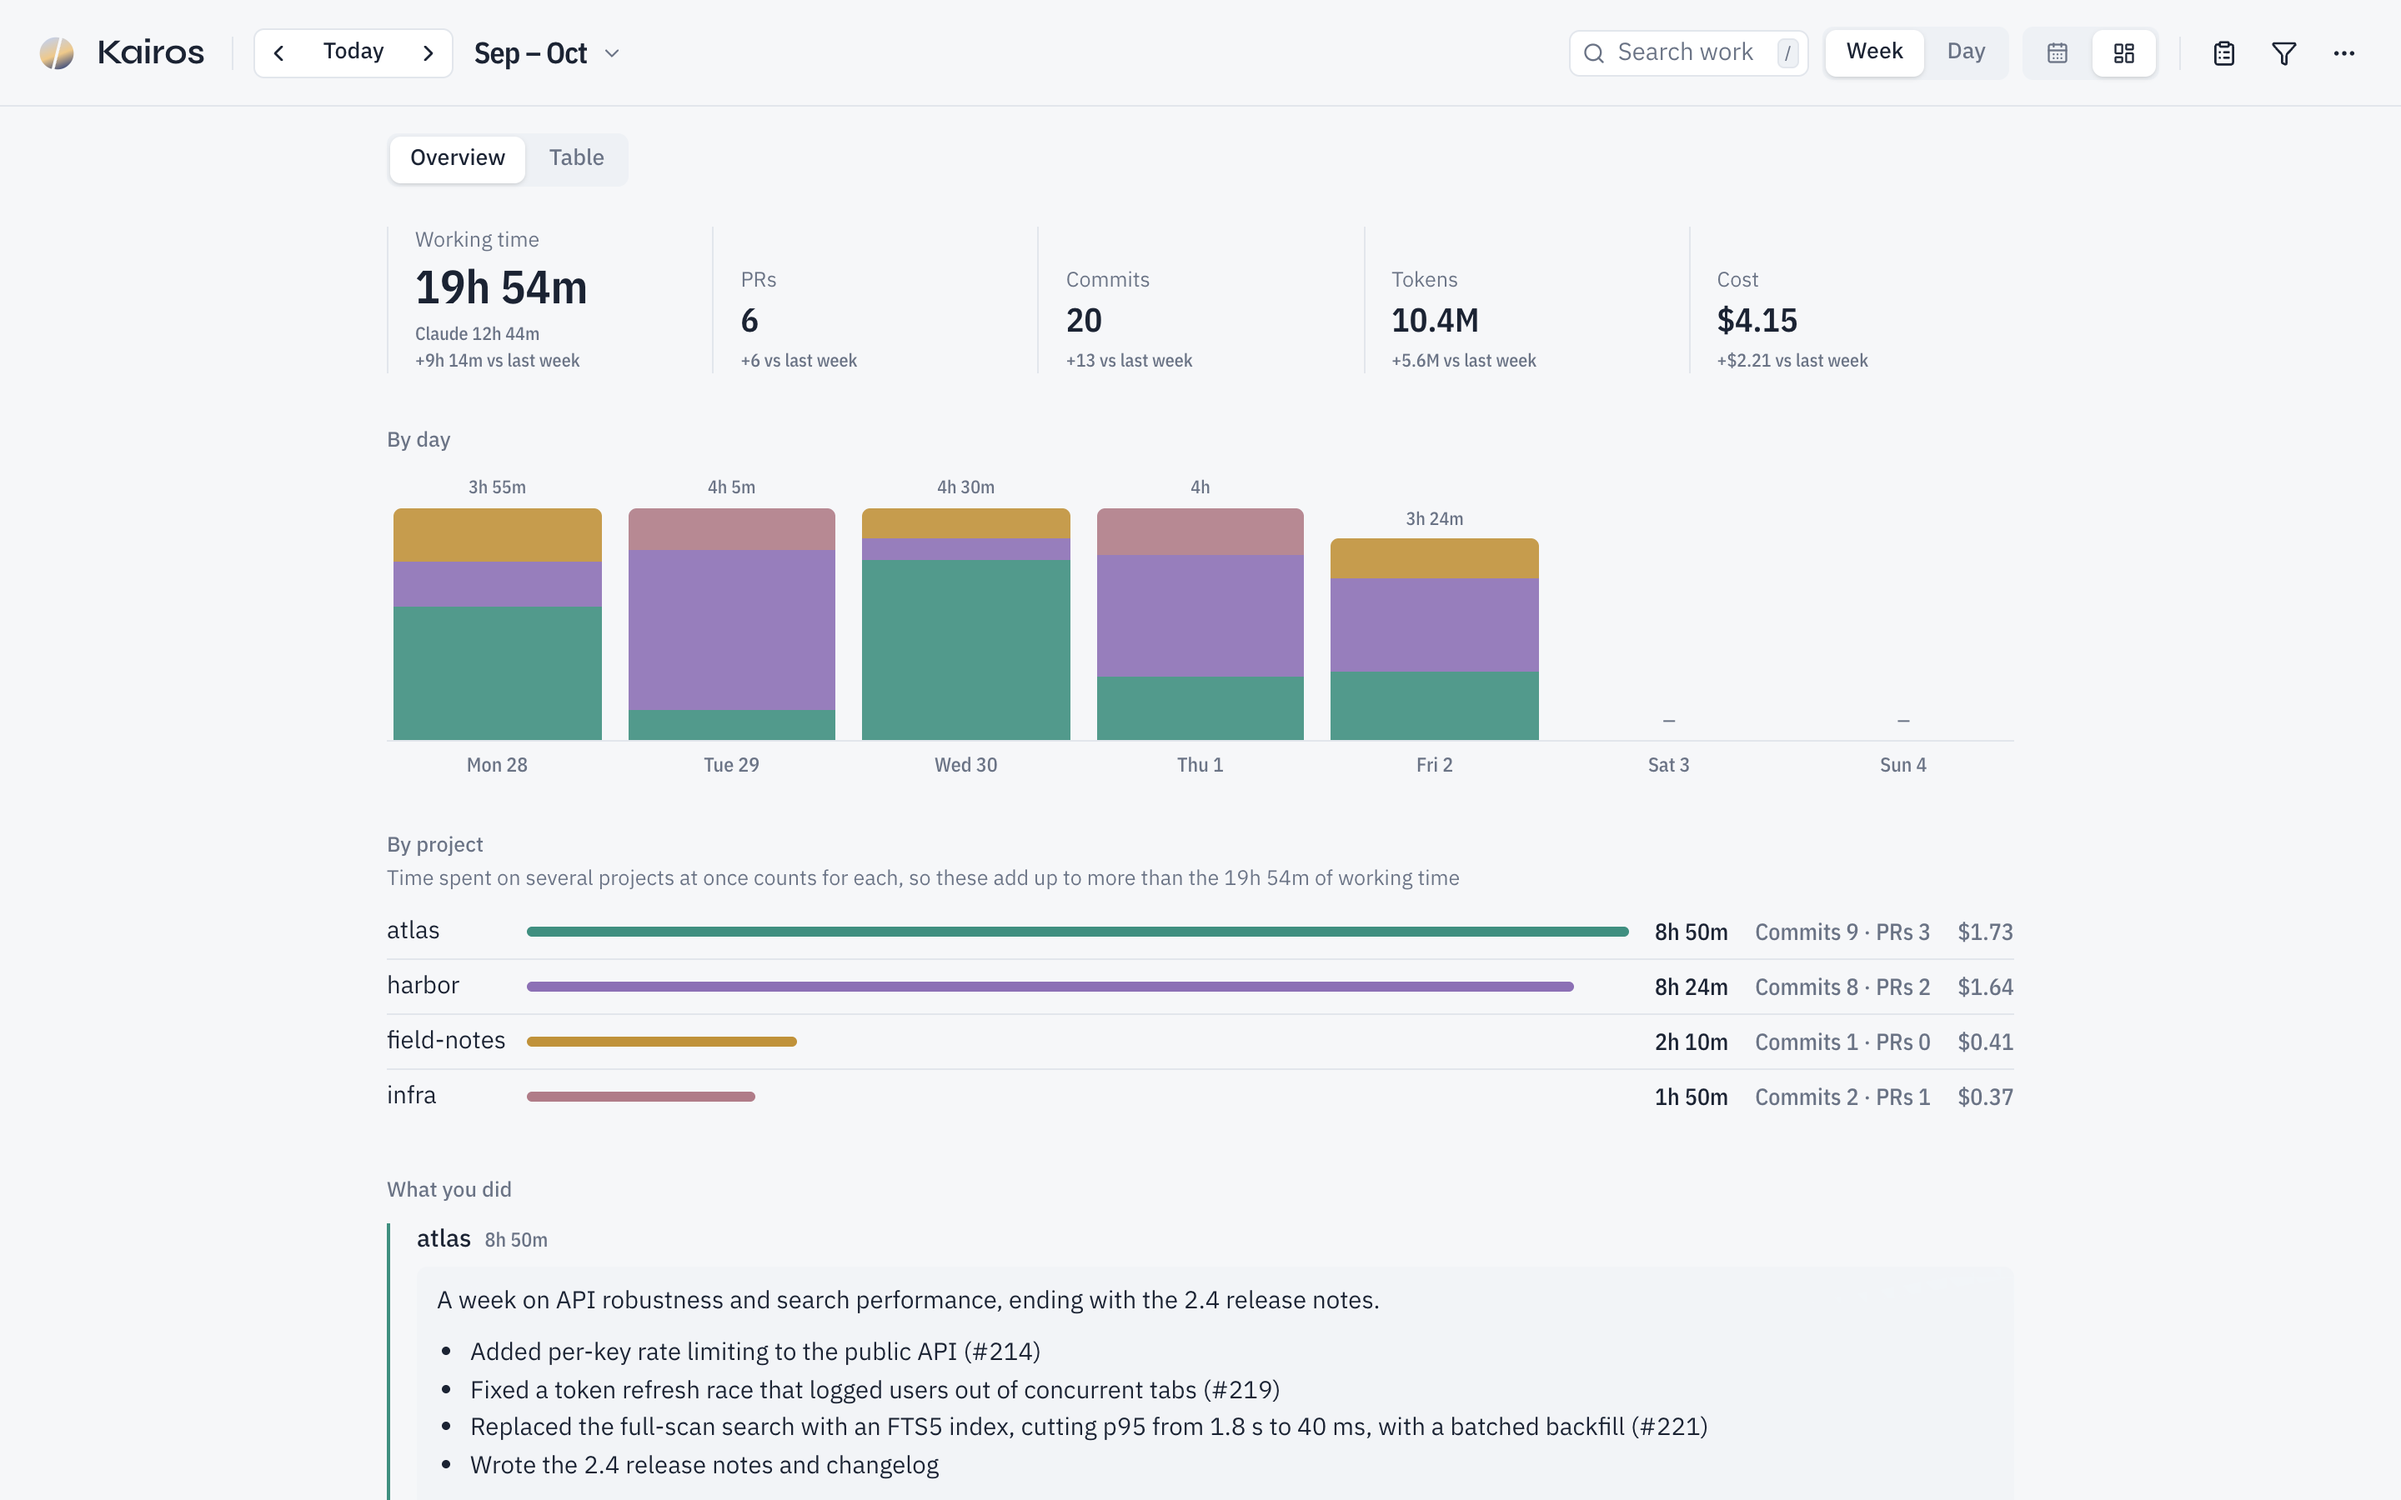
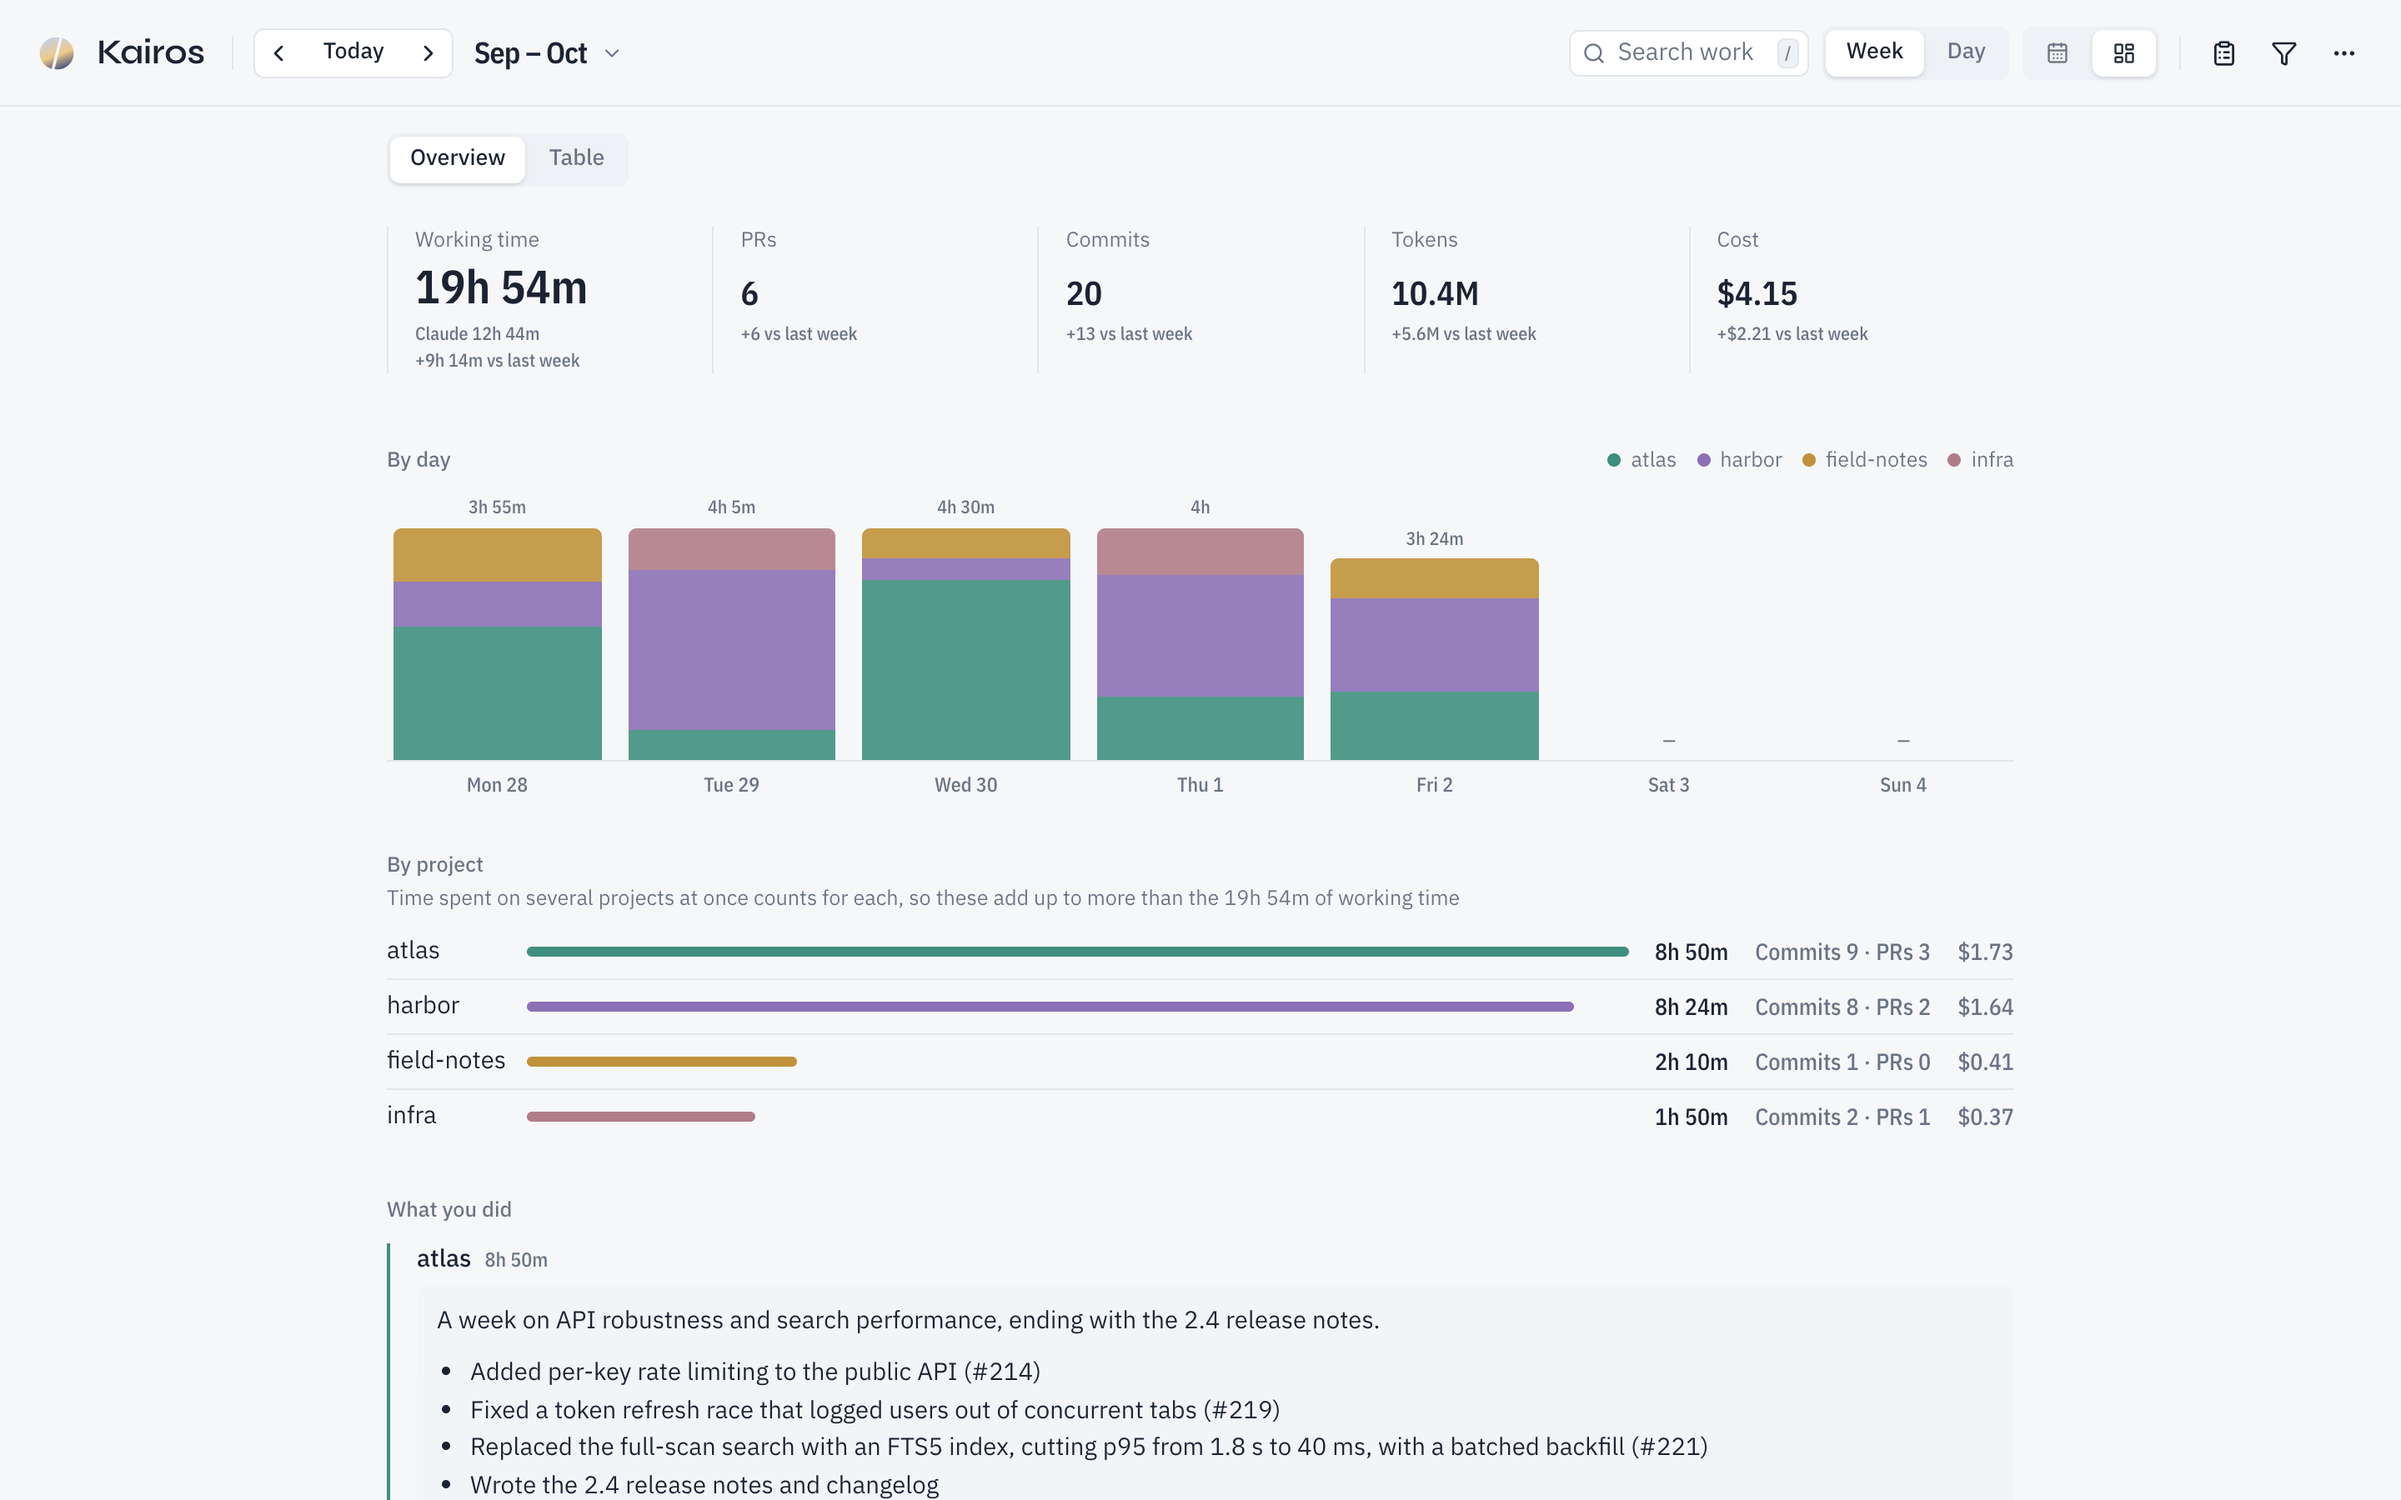
docs: describe commit and PR marks in DESIGN.md and retake screenshots
The demo week committed only in each block's last minutes; real logs commit
all along a block, so the demo now spreads commits through the work.

diff --git a/scripts/screenshots/demo.ts b/scripts/screenshots/demo.ts
@@ -626,6 +626,7 @@ function writeSection(b: LogBuilder, s: DemoSection, project: ProjectKey): void 
   const end = start + s.minutes;
   const turn = s.minutes / s.prompts.length;
   const files = s.files ?? [];
+  const commits = commitTimes(s, start);
   s.prompts.forEach((prompt, i) => {
     const from = start + i * turn;
     const to = from + turn;
@@ -648,24 +649,46 @@ function writeSection(b: LogBuilder, s: DemoSection, project: ProjectKey): void 
       } else {
         b.bash(t, "bun test", "42 pass\n0 fail");
       }
+      while (commits[0] !== undefined && commits[0].at <= t) {
+        const next = commits.shift();
+        if (next) writeCommit(b, next.message, t + 0.2);
+      }
     }
-    if (i === s.prompts.length - 1) writeOutcomes(b, s, project, end);
+    if (i === s.prompts.length - 1) {
+      for (const [k, c] of commits.entries()) writeCommit(b, c.message, end - 3 + k * 0.3);
+      writePr(b, s, project, end);
+    }
     b.text(to, "Done.");
     b.turnEnd(to, Math.round(turn * 60_000 * 0.6));
   });
 }
 
-/** Commits and the PR just before the section ends. */
-function writeOutcomes(b: LogBuilder, s: DemoSection, project: ProjectKey, end: number): void {
-  (s.commits ?? []).forEach((message, i) => {
-    commitSeq += 1;
-    const hash = (0x1a2b3c0 + commitSeq * 7919).toString(16).slice(0, 7);
-    b.bash(
-      end - 3 + i * 0.3,
-      `git commit -m "${message}"`,
-      `[${b.gitBranch} ${hash}] ${message}\n 3 files changed, 64 insertions(+), 12 deletions(-)`,
-    );
-  });
+/**
+ * When each commit of a section lands: spread through the work, the last one shortly before the
+ * end. Real logs commit all along a block, not only at its end, and the calendar marks each one
+ * where it happened.
+ */
+function commitTimes(s: DemoSection, start: number): { message: string; at: number }[] {
+  const messages = s.commits ?? [];
+  return messages.map((message, i) => ({
+    message,
+    at: start + (s.minutes * (i + 1)) / (messages.length + 0.4) - 2,
+  }));
+}
+
+/** One `git commit` with its output, as Claude Code logs it. */
+function writeCommit(b: LogBuilder, message: string, at: number): void {
+  commitSeq += 1;
+  const hash = (0x1a2b3c0 + commitSeq * 7919).toString(16).slice(0, 7);
+  b.bash(
+    at,
+    `git commit -m "${message}"`,
+    `[${b.gitBranch} ${hash}] ${message}\n 3 files changed, 64 insertions(+), 12 deletions(-)`,
+  );
+}
+
+/** The section's PR, just before it ends. */
+function writePr(b: LogBuilder, s: DemoSection, project: ProjectKey, end: number): void {
   if (s.pr) {
     b.ghPrCreate(end - 1.5, `gh pr create --title "${s.pr.title}" --body "…"`, {
       number: s.pr.number,

diff --git a/DESIGN.md b/DESIGN.md
@@ -166,6 +166,10 @@ Direction **"Indigo hours"**, chosen on 2026-10-05 from three compared proposals
 A personal tool for looking back at what you did and when. The screen is "calendar or summary +
 drawer" and nothing more, so the work itself is the loudest thing on it.
 
+- **Chronos is the frame, kairos is the mark.** The grid, rules and block heights are clock time
+  (chronos), and stay quiet. What the app is named for, the moments that mattered (kairos), is
+  drawn on top: each commit and PR is a node on its block's edge at the minute it was made. This
+  is the one place the design spends its boldness
 - **Keep the frame quiet so the work blocks carry the color.** Toolbar, time column and rules are
   neutral; the time column has plain, muted hour labels (it once shifted through the colors of the
   day, and was dropped because it competed with the blocks)
@@ -179,7 +183,8 @@ Tokens map to CSS variables in `src/web/src/index.css` (shadcn/ui names): `surfa
 `ink` → `--foreground`, `muted-ink` → `--muted-foreground`, `line` → `--border`. The dark theme
 swaps every value for its `-dark` token under `.dark`.
 
-- **Primary (indigo `#2e4c8c` / `#8da8e8`):** selection, the current-time line, focus rings, PR icons
+- **Primary (indigo `#2e4c8c` / `#8da8e8`):** selection (including the selected block's outline),
+  the current-time line, focus rings and links. Not for headings or surfaces
 - **Background / Surface:** the screen is slightly grey; the calendar body and the drawer sit on
   white (navy in dark) surfaces
 - **Warn (`#8a6420`):** text of numbers that need attention (snags). Plain yellow ocher lacks
@@ -252,11 +257,19 @@ Stacked work blocks get a 1px `surface`-colored outline, not a shadow, to separa
 ## Components
 
 - **Work block:** heading (summary headline, or the first prompt before summarizing), then the time
-  range in `numeral` when there is room. Unsummarized blocks use the dim fill and muted text.
-  Commit/PR icons sit bottom-right; a pulsing project-colored dot marks work in progress.
-  Selected: selected fill plus a 2px `ink` outline. Filtered-out blocks fade to 30% opacity and
-  come back on hover or focus
-- **Drawer:** the selected section's summary first, then session flow, outcomes, conversation
+  range in `numeral` when there is room; the heading gives up lines to the time range rather than
+  overlapping it. Unsummarized blocks use the dim fill and muted text. A pulsing project-colored
+  dot marks work in progress. Selected: selected fill plus a 2px `primary` outline. Filtered-out
+  blocks fade to 30% opacity and come back on hover or focus
+- **Moments (commit and PR nodes):** read like a git graph: the block's colored edge is the branch,
+  and each commit is a 7px `ink` ring (filled with `surface`) hanging just inside it at the height
+  of the minute it was made; a PR is the same node filled with `ink`. Nodes stay a radius inside the
+  block, which clips at its border. The day view adds a lane on the right of each block
+  (`min(38%, 24rem)`, a faint rule on its left) labeling each node with its time, short SHA or PR
+  number and title; labels push apart to avoid overlapping and end in "+n more" when they run out
+  of room. The block's text keeps a 72ch measure beside the lane
+- **Drawer:** the selected section's summary first (on a neutral `muted` surface with a faint
+  `ink` rule; its heading in `ink` rather than muted), then session flow, outcomes, conversation
   (collapsed at first) and numbers
 - **Mark:** `src/web/public/favicon.svg` — a circle with a dawn → evening → night gradient cut by a
   diagonal blade (Kairos stands on a razor's edge: cutting out a single moment). The background
